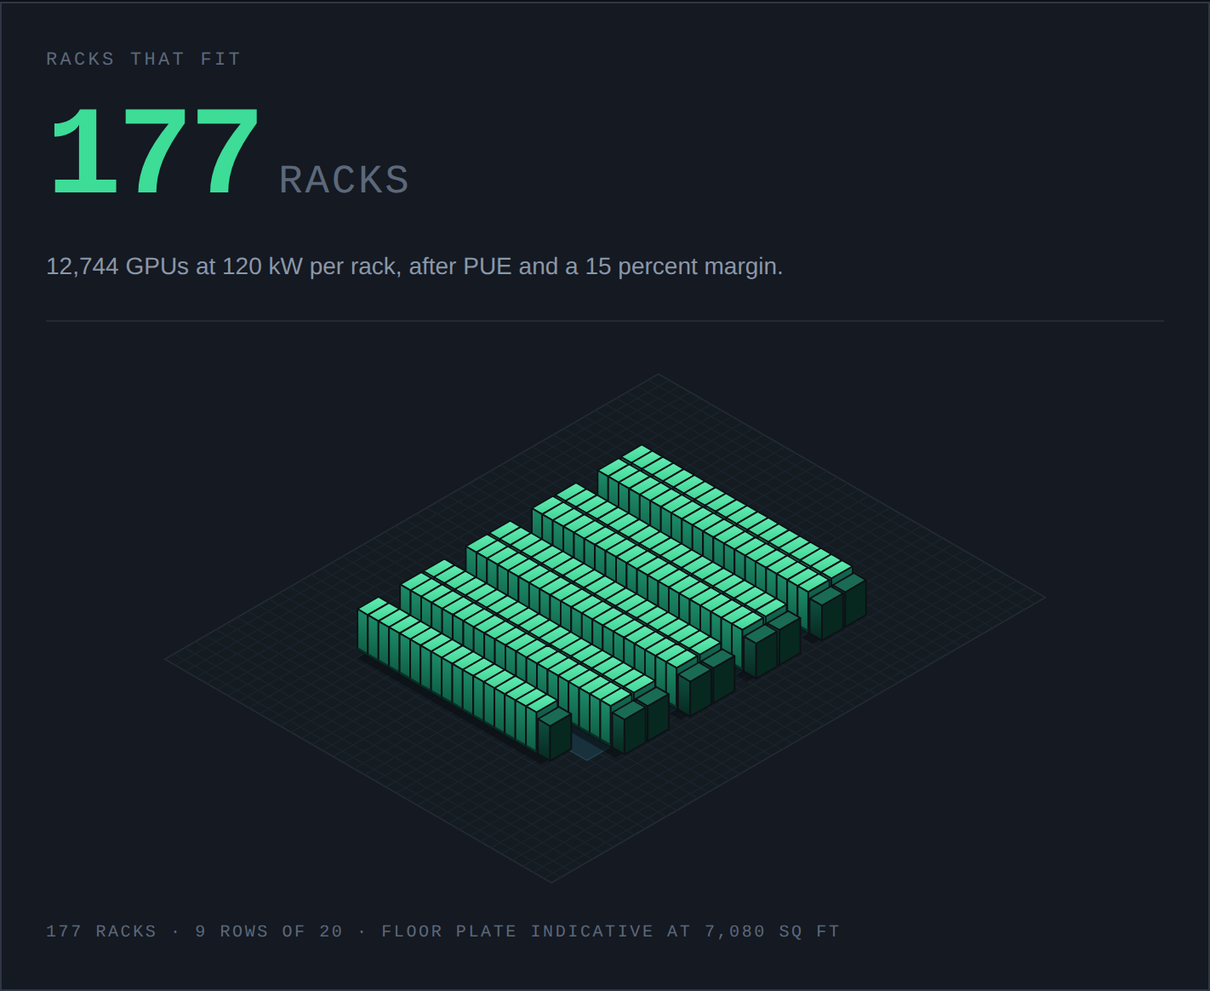
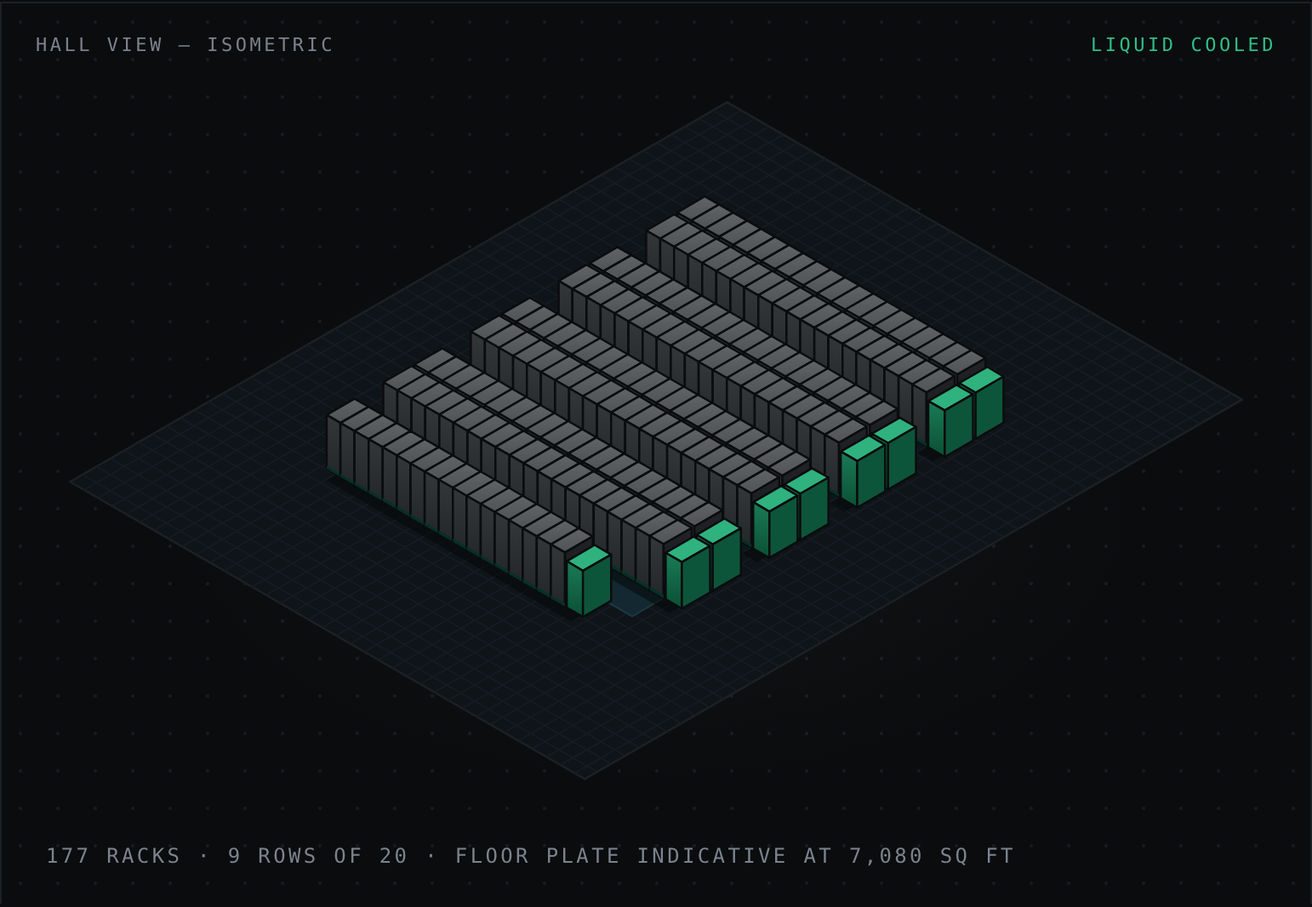
Ration the accent so green reads as a signal again
The green had spread past the rule its own token comment stated. It was on
every link hover, every heading hover, the arrow glyphs, table-row hover, the
section numerals, the slider thumbs, the select caret, the stage glow, the
sweep line, and all 177 rack faces in the isometric hall — 100 references
across the three pages. An accent on every interaction state is a theme, not
a signal, and it left nothing to mark the things that are actually live.

The hue stays. Green is domain-correct for energized, Crash Cart's risk scale
already owns red through yellow so green is the only hue left meaning fine,
and the megawatt ramp is validated against protanopia at this hue.

What changed is the dosage. Green now means one thing: a number that came
from data, or a thing that is live. Hovers, links and ornament resolve to
white or grey. In the reference table the hover tint goes neutral while the
selected archetype — the row actually driving the model — keeps the signal.

The hall follows the same rule. Racks render in graphite the way real
cabinets look, on a three-step lightness ramp that keeps the isometric faces
reading as solids, and the only colour left in the drawing is the row-end
CDUs. The green now marks the liquid loop instead of the whole room, which
is what the HUD readout beside it already claimed.

Down to 63 references, and the largest coloured mass on the site is gone.
README screenshots regenerated; they were showing a hall that no longer
[…]

diff --git a/rack-budget/index.html b/rack-budget/index.html
@@ -27,7 +27,9 @@
     --tx2:#A8B0B8;         /* secondary text */
     --tx2b:#C7CDD4;        /* dense mono passages: one step brighter to stay readable */
     --tx3:#7B838D;         /* labels only */
-    --grn:#3FE0A0;         /* signal green: data and live things only */
+    /* Signal green, and nothing else gets it. A number that came from data, or a
+       thing that is live. Not hovers, not links, not ornament. */
+    --grn:#3FE0A0;
     --grn2:#2FBF86;
     --ramp1:#4FE3A5;       /* ordinal step 1: compute */
     --ramp2:#1E9E73;       /* ordinal step 2: held back */
@@ -76,7 +78,7 @@
   h3{font-weight:600;font-size:17px;letter-spacing:-.015em;margin:0 0 8px}
   .lede{font-size:17px;color:var(--tx2);max-width:62ch;margin:0;text-wrap:pretty}
   .lede a{color:var(--tx);text-decoration:underline;text-decoration-color:var(--line2);text-underline-offset:4px}
-  .lede a:hover{color:var(--grn);text-decoration-color:var(--grn)}
+  .lede a:hover{color:var(--tx);text-decoration-color:var(--tx)}
   section{padding:96px 0;border-top:1px solid var(--line);scroll-margin-top:64px}
   @media(max-width:700px){section{padding:64px 0}}
 
@@ -102,7 +104,7 @@
     background:var(--tx);color:var(--bg);border:1px solid var(--tx);cursor:pointer}
   .btn:hover{background:#fff;border-color:#fff}
   .btn.ghost{background:transparent;color:var(--tx);border-color:var(--line2)}
-  .btn.ghost:hover{border-color:var(--grn);color:var(--grn)}
+  .btn.ghost:hover{border-color:var(--tx);color:var(--tx)}
   .btn:active{transform:translateY(1px)}
 
   /* ---------- calculator: one framed console ----------
@@ -153,9 +155,9 @@
      on touch screens the strip grows to the 44px floor and the thumb doubles */
   input[type=range]{-webkit-appearance:none;appearance:none;width:100%;height:28px;background:transparent;margin:4px 0 0;cursor:pointer}
   input[type=range]::-webkit-slider-runnable-track{height:2px;background:var(--line2)}
-  input[type=range]::-webkit-slider-thumb{-webkit-appearance:none;width:13px;height:13px;background:var(--grn);border:0;cursor:pointer;margin-top:-5.5px}
+  input[type=range]::-webkit-slider-thumb{-webkit-appearance:none;width:13px;height:13px;background:var(--tx);border:0;cursor:pointer;margin-top:-5.5px}
   input[type=range]::-moz-range-track{height:2px;background:var(--line2)}
-  input[type=range]::-moz-range-thumb{width:13px;height:13px;background:var(--grn);border:0;border-radius:0;cursor:pointer}
+  input[type=range]::-moz-range-thumb{width:13px;height:13px;background:var(--tx);border:0;border-radius:0;cursor:pointer}
   @media(pointer:coarse){
     input[type=range]{height:44px;margin:0}
     input[type=range]::-webkit-slider-thumb{width:26px;height:26px;margin-top:-12px}
@@ -170,13 +172,13 @@
   .sel-btn{display:flex;align-items:center;gap:12px;width:100%;font-family:var(--mono);font-size:15px;
     text-align:start;padding:13px 14px;border:1px solid var(--line2);background:var(--bg2);color:var(--tx);cursor:pointer}
   .sel-btn:hover{border-color:var(--tx3)}
-  .sel-btn[aria-expanded="true"]{border-color:var(--grn)}
+  .sel-btn[aria-expanded="true"]{border-color:var(--tx)}
   .sel-btn:focus-visible{outline:2px solid var(--grn);outline-offset:3px}
   .sel-btn .nm{flex:1;min-width:0;overflow:hidden;text-overflow:ellipsis;white-space:nowrap}
   .sel-btn .kw{color:var(--tx3);font-variant-numeric:tabular-nums;white-space:nowrap;font-size:12px}
   .caret{flex:none;width:10px;height:10px;color:var(--tx3)}
   .sel-btn:hover .caret{color:var(--tx)}
-  .sel-btn[aria-expanded="true"] .caret{color:var(--grn);transform:rotate(180deg)}
+  .sel-btn[aria-expanded="true"] .caret{color:var(--tx);transform:rotate(180deg)}
   .sel-list{position:absolute;z-index:50;inset-inline:0;top:calc(100% + 5px);margin:0;padding:5px 0;list-style:none;
     background:var(--bg2);border:1px solid var(--line2);box-shadow:0 22px 48px rgba(0,0,0,.62);
     max-height:min(54vh,340px);overflow-y:auto;overscroll-behavior:contain}
@@ -205,7 +207,7 @@
 
   /* the stage: a framed dark field with registration ticks; the viz owns it */
   .stage{position:relative;overflow:hidden;border:1px solid var(--line);background:
-    radial-gradient(58% 48% at 50% 56%, rgba(63,224,160,.05), transparent 72%),
+    radial-gradient(58% 48% at 50% 56%, rgba(238,241,243,.04), transparent 72%),
     radial-gradient(circle, #161B20 1px, transparent 1.1px);
     background-size:100% 100%, 22px 22px;
     padding:44px 26px 18px;min-height:360px;margin-bottom:34px;
@@ -263,7 +265,7 @@
   .three{display:grid;grid-template-columns:repeat(3,1fr);gap:48px;margin-top:52px}
   @media(max-width:820px){.three{grid-template-columns:1fr;gap:36px}}
   .three .c{border-top:1px solid var(--line2);padding-top:22px}
-  .three .c .i{font-family:var(--mono);font-size:12px;color:var(--grn);margin-bottom:14px}
+  .three .c .i{font-family:var(--mono);font-size:12px;color:var(--tx3);margin-bottom:14px}
   .three .c p{margin:0;font-size:15px;color:var(--tx2);text-wrap:pretty}
 
   /* the numbers that make the argument, on an instrument readout of their own */
@@ -285,7 +287,7 @@
   .steps{display:grid;grid-template-columns:repeat(2,1fr);gap:44px 48px;margin-top:52px}
   @media(max-width:820px){.steps{grid-template-columns:1fr;gap:36px}}
   .step{border-top:1px solid var(--line2);padding-top:22px}
-  .step .n{font-family:var(--mono);font-size:12px;letter-spacing:.14em;text-transform:uppercase;color:var(--grn);margin-bottom:14px}
+  .step .n{font-family:var(--mono);font-size:12px;letter-spacing:.14em;text-transform:uppercase;color:var(--tx3);margin-bottom:14px}
   .step p{margin:0 0 10px;font-size:15px;color:var(--tx2);text-wrap:pretty}
   .step p:last-child{margin-bottom:0}
   .step b{color:var(--tx);font-weight:500}
@@ -307,15 +309,18 @@
   .tag{font-family:var(--mono);font-size:11px;letter-spacing:.12em;text-transform:uppercase;border:1px solid var(--line2);padding:3px 8px;color:var(--tx3);white-space:nowrap}
   .tag.l{border-color:rgba(63,224,160,.4);color:var(--grn)}
   #refBody tr{cursor:pointer}
-  #refBody tr:hover td{background:rgba(63,224,160,.03)}
-  #refBody tr:hover td.name{color:var(--grn)}
+  /* hover is just pointer feedback and stays neutral; only the selected
+     archetype — the one actually driving the model — earns the signal */
+  #refBody tr:hover td{background:rgba(238,241,243,.03)}
+  #refBody tr:hover td.name{color:var(--tx)}
   #refBody tr.on td{background:rgba(63,224,160,.05)}
   #refBody tr.on td.name{color:var(--grn)}
   /* the archetype name is the row's real control, so the ladder works by keyboard too */
   .rowbtn{font:inherit;font-weight:500;color:inherit;background:none;border:0;padding:0;margin:0;text-align:start;cursor:pointer;width:100%;
     text-decoration:underline dotted var(--line2);text-decoration-thickness:from-font;text-underline-offset:4px}
   .rowbtn:focus-visible{outline:2px solid var(--grn);outline-offset:3px}
-  #refBody tr:hover .rowbtn,#refBody tr.on .rowbtn{color:var(--grn);text-decoration-color:var(--grn2)}
+  #refBody tr:hover .rowbtn{color:var(--tx);text-decoration-color:var(--tx3)}
+  #refBody tr.on .rowbtn{color:var(--grn);text-decoration-color:var(--grn2)}
   @media(max-width:700px){
     table th:last-child, table td:last-child{display:none}
     th,td{padding-inline-end:10px}
@@ -345,7 +350,7 @@
   .model ul.plain li:last-child{border-bottom:0}
   .model ul.plain li:before{content:none}
   ul.plain li{position:relative;padding-inline-start:28px;margin-bottom:14px;font-size:16px;color:var(--tx2)}
-  ul.plain li:before{content:"\2014";position:absolute;left:0;font-family:var(--mono);color:var(--grn2)}
+  ul.plain li:before{content:"\2014";position:absolute;left:0;font-family:var(--mono);color:var(--tx3)}
   ul.plain li b{color:var(--tx);font-weight:500}
 
   /* ---------- section index: outlined ghost numerals ---------- */
@@ -375,7 +380,7 @@
   .p-spec dd.on::before{content:"";display:inline-block;width:6px;height:6px;background:var(--grn);margin-right:10px;vertical-align:1px}
   .plate-ft{display:flex;flex-wrap:wrap;align-items:center;justify-content:space-between;gap:14px 24px;border-top:1px solid var(--line);padding:20px 52px}
   .lnk{font-family:var(--mono);font-size:12px;letter-spacing:.14em;text-transform:uppercase;color:var(--tx2);white-space:nowrap;padding:14px 2px}
-  .lnk:hover{color:var(--grn)}
+  .lnk:hover{color:var(--tx)}
   @media(max-width:860px){
     .plate-main{grid-template-columns:1fr;gap:36px;padding:32px 24px 30px}
     .plate-ft{padding:16px 24px;flex-direction:column;align-items:stretch}
@@ -385,7 +390,7 @@
 
   footer{border-top:1px solid var(--line);padding:44px 0 72px;font-size:15px;color:var(--tx3)}
   footer a{color:var(--tx2)}
-  footer a:hover{color:var(--grn)}
+  footer a:hover{color:var(--tx)}
   footer .lbl{margin-bottom:14px}
 
   .toast{position:fixed;left:50%;bottom:28px;transform:translateX(-50%) translateY(20px);background:var(--tx);color:var(--bg);font-family:var(--mono);font-weight:600;font-size:12px;letter-spacing:.13em;text-transform:uppercase;padding:13px 20px;opacity:0;pointer-events:none;z-index:60}
@@ -1004,10 +1009,10 @@
 
     // light falls from the upper left, so every face gets its own ramp
     out.push('<defs>'+
-      '<linearGradient id="gTop" x1="0" y1="0" x2="0" y2="1"><stop offset="0" stop-color="#63EEB4"/><stop offset="1" stop-color="#41D294"/></linearGradient>'+
-      '<linearGradient id="gFront" x1="0" y1="0" x2="0" y2="1"><stop offset="0" stop-color="#1D8E69"/><stop offset="1" stop-color="#0E5B43"/></linearGradient>'+
-      '<linearGradient id="gSide" x1="0" y1="0" x2="0" y2="1"><stop offset="0" stop-color="#136B51"/><stop offset="1" stop-color="#0A3F2F"/></linearGradient>'+
-      '<linearGradient id="gCdu" x1="0" y1="0" x2="0" y2="1"><stop offset="0" stop-color="#0F5040"/><stop offset="1" stop-color="#07281F"/></linearGradient>'+
+      '<linearGradient id="gTop" x1="0" y1="0" x2="0" y2="1"><stop offset="0" stop-color="#616467"/><stop offset="1" stop-color="#505356"/></linearGradient>'+
+      '<linearGradient id="gFront" x1="0" y1="0" x2="0" y2="1"><stop offset="0" stop-color="#34373A"/><stop offset="1" stop-color="#242729"/></linearGradient>'+
+      '<linearGradient id="gSide" x1="0" y1="0" x2="0" y2="1"><stop offset="0" stop-color="#212326"/><stop offset="1" stop-color="#141619"/></linearGradient>'+
+      '<linearGradient id="gCdu" x1="0" y1="0" x2="0" y2="1"><stop offset="0" stop-color="#1A7B56"/><stop offset="1" stop-color="#0B4F35"/></linearGradient>'+
       '</defs>');
 
     // ---- floor plate + raised-floor tiles ----
@@ -1065,9 +1070,9 @@
       // row-end coolant distribution unit: every liquid row needs one
       if(liquid && LOD >= 1 && p[3] === rowLen[p[2]] - 1){
         var cx = x + RW + 0.08, CW = 0.7, CH = 1.72;
-        out.push(poly([iso(cx,y,CH),iso(cx+CW,y,CH),iso(cx+CW,y+RD,CH),iso(cx,y+RD,CH)], "#1A6B54", "#0A0C0E"));
+        out.push(poly([iso(cx,y,CH),iso(cx+CW,y,CH),iso(cx+CW,y+RD,CH),iso(cx,y+RD,CH)], "#2FB27E", "#0A0C0E"));
         out.push(poly([iso(cx,y+RD,CH),iso(cx+CW,y+RD,CH),iso(cx+CW,y+RD,0),iso(cx,y+RD,0)], "url(#gCdu)", "#0A0C0E"));
-        out.push(poly([iso(cx+CW,y,CH),iso(cx+CW,y+RD,CH),iso(cx+CW,y+RD,0),iso(cx+CW,y,0)], "#07281F", "#0A0C0E"));
+        out.push(poly([iso(cx+CW,y,CH),iso(cx+CW,y+RD,CH),iso(cx+CW,y+RD,0),iso(cx+CW,y,0)], "#0D553A", "#0A0C0E"));
         if(LOD === 2)
           out.push(line(iso(cx+0.06,y+RD,CH-0.18), iso(cx+CW-0.06,y+RD,CH-0.18), "#3FE0A0", 0.7));
       }

diff --git a/index.html b/index.html
@@ -26,7 +26,10 @@
     --tx:#EEF1F3;          /* primary text */
     --tx2:#A8B0B8;         /* secondary text */
     --tx3:#7B838D;         /* labels only */
-    --grn:#3FE0A0;         /* signal green: data and live things only */
+    /* Signal green, and nothing else gets it. A number that came from data, or a
+       thing that is live. Not hovers, not links, not ornament — the moment it
+       lands on interaction states it stops reading as a signal. */
+    --grn:#3FE0A0;
     --grn2:#2FBF86;
     --sans:"Archivo",-apple-system,BlinkMacSystemFont,"Segoe UI",Helvetica,Arial,sans-serif;
     --mono:"Geist Mono",ui-monospace,SFMono-Regular,Menlo,Consolas,monospace;
@@ -70,7 +73,7 @@
     display:inline-flex;align-items:center;gap:10px;padding:15px 24px;background:var(--tx);color:var(--bg);border:1px solid var(--tx);cursor:pointer}
   .btn:hover{background:#fff;border-color:#fff}
   .btn.ghost{background:transparent;color:var(--tx);border-color:var(--line2)}
-  .btn.ghost:hover{border-color:var(--grn);color:var(--grn)}
+  .btn.ghost:hover{border-color:var(--tx);color:var(--tx)}
   @media(max-width:640px){.btns{width:100%;flex-direction:column;align-items:stretch}.btns .btn{justify-content:center}}
   @media (prefers-reduced-motion: no-preference){
     html{scroll-behavior:smooth}
@@ -78,9 +81,9 @@
     .rise{animation:rise .7s cubic-bezier(.2,.7,.2,1) both}
     .rise.d1{animation-delay:.06s}.rise.d2{animation-delay:.12s}.rise.d3{animation-delay:.18s}.rise.d4{animation-delay:.28s}
     @keyframes rise{from{opacity:0;transform:translateY(14px)}}
-    /* a survey line sweeps the stage; pure decoration, gone under reduced motion */
+    /* a survey line sweeps the stage; pure decoration, so it stays neutral */
     .stage::after{content:"";position:absolute;top:0;bottom:0;left:-160px;width:140px;pointer-events:none;
-      background:linear-gradient(90deg,transparent,rgba(63,224,160,.04) 40%,rgba(63,224,160,.13) 50%,rgba(63,224,160,.04) 60%,transparent);
+      background:linear-gradient(90deg,transparent,rgba(238,241,243,.03) 40%,rgba(238,241,243,.09) 50%,rgba(238,241,243,.03) 60%,transparent);
       animation:scan 9s linear infinite}
     @keyframes scan{to{left:calc(100% + 40px)}}
     .tk{animation:tick 48s linear infinite}
@@ -89,7 +92,7 @@
 
   /* the stage: a framed dark field with registration ticks; the viz owns it */
   .stage{position:relative;overflow:hidden;border:1px solid var(--line);background:
-    radial-gradient(52% 56% at 50% 52%, rgba(63,224,160,.08), transparent 72%),
+    radial-gradient(52% 56% at 50% 52%, rgba(238,241,243,.04), transparent 72%),
     radial-gradient(circle, #161B20 1px, transparent 1.1px);
     background-size:100% 100%, 22px 22px;padding:58px 34px 22px;min-height:440px;
     display:flex;flex-direction:column;justify-content:center}
@@ -106,7 +109,7 @@
   @media(max-width:640px){.hud.tr2{display:none}}
   .stage svg{width:100%;height:auto;display:block;max-height:560px}
   .stage .cap{display:flex;flex-wrap:wrap;align-items:baseline;justify-content:space-between;gap:10px 16px;margin-top:24px}
-  .cap-link{font-family:var(--mono);font-size:11px;letter-spacing:.16em;text-transform:uppercase;color:var(--grn);white-space:nowrap;position:relative}
+  .cap-link{font-family:var(--mono);font-size:11px;letter-spacing:.16em;text-transform:uppercase;color:var(--tx);white-space:nowrap;position:relative}
   .cap-link::after{content:"";position:absolute;inset:-14px -8px}
   .cap-link:hover{text-decoration:underline;text-underline-offset:4px}
 
@@ -143,8 +146,8 @@
   @media(max-width:960px){.tag{grid-row:1;grid-column:2;justify-self:end}}
   .tool .arr{display:inline-block;font-family:var(--mono);font-size:17px;color:var(--tx3);transform:translateX(0)}
   a.tool:hover{background:linear-gradient(90deg,transparent,rgba(238,241,243,.025),transparent)}
-  a.tool:hover h3{color:var(--grn)}
-  a.tool:hover .arr{color:var(--grn)}
+  a.tool:hover h3{color:var(--tx)}
+  a.tool:hover .arr{color:var(--tx)}
   @media (prefers-reduced-motion: no-preference){
     .tool .arr{transition:transform .18s ease,color .18s ease}
     a.tool:hover .arr{transform:translateX(8px)}
@@ -154,7 +157,7 @@
   .three{display:grid;grid-template-columns:repeat(3,1fr);gap:48px}
   @media(max-width:820px){.three{grid-template-columns:1fr;gap:36px}}
   .three .c{border-top:1px solid var(--line2);padding-top:22px}
-  .three .c .i{font-family:var(--mono);font-size:12px;color:var(--grn);margin-bottom:14px}
+  .three .c .i{font-family:var(--mono);font-size:12px;color:var(--tx3);margin-bottom:14px}
   .three .c h3{font-weight:600;font-size:18px;letter-spacing:-.015em;margin:0 0 10px}
   .three .c p{margin:0;font-size:15px;color:var(--tx2);text-wrap:pretty}
 
@@ -174,7 +177,7 @@
   .p-spec dd.on::before{content:"";display:inline-block;width:6px;height:6px;background:var(--grn);margin-right:10px;vertical-align:1px}
   .plate-ft{display:flex;flex-wrap:wrap;align-items:center;justify-content:space-between;gap:14px 24px;border-top:1px solid var(--line);padding:20px 52px}
   .lnk{font-family:var(--mono);font-size:12px;letter-spacing:.14em;text-transform:uppercase;color:var(--tx2);white-space:nowrap;padding:14px 2px}
-  .lnk:hover{color:var(--grn)}
+  .lnk:hover{color:var(--tx)}
   @media(max-width:860px){
     .plate-main{grid-template-columns:1fr;gap:36px;padding:32px 24px 30px}
     .plate-ft{padding:16px 24px;flex-direction:column;align-items:stretch}
@@ -184,7 +187,7 @@
 
   footer{border-top:1px solid var(--line);padding:44px 0 72px;font-size:15px;color:var(--tx3)}
   footer a{color:var(--tx2)}
-  footer a:hover{color:var(--grn)}
+  footer a:hover{color:var(--tx)}
   footer .lbl{margin-bottom:14px}
   footer p{margin:0;max-width:74ch}
 
@@ -412,10 +415,10 @@
   }
 
   out.push('<defs>'+
-    '<linearGradient id="gTop" x1="0" y1="0" x2="0" y2="1"><stop offset="0" stop-color="#63EEB4"/><stop offset="1" stop-color="#41D294"/></linearGradient>'+
-    '<linearGradient id="gFront" x1="0" y1="0" x2="0" y2="1"><stop offset="0" stop-color="#1D8E69"/><stop offset="1" stop-color="#0E5B43"/></linearGradient>'+
-    '<linearGradient id="gSide" x1="0" y1="0" x2="0" y2="1"><stop offset="0" stop-color="#136B51"/><stop offset="1" stop-color="#0A3F2F"/></linearGradient>'+
-    '<linearGradient id="gCdu" x1="0" y1="0" x2="0" y2="1"><stop offset="0" stop-color="#0F5040"/><stop offset="1" stop-color="#07281F"/></linearGradient>'+
+    '<linearGradient id="gTop" x1="0" y1="0" x2="0" y2="1"><stop offset="0" stop-color="#616467"/><stop offset="1" stop-color="#505356"/></linearGradient>'+
+    '<linearGradient id="gFront" x1="0" y1="0" x2="0" y2="1"><stop offset="0" stop-color="#34373A"/><stop offset="1" stop-color="#242729"/></linearGradient>'+
+    '<linearGradient id="gSide" x1="0" y1="0" x2="0" y2="1"><stop offset="0" stop-color="#212326"/><stop offset="1" stop-color="#141619"/></linearGradient>'+
+    '<linearGradient id="gCdu" x1="0" y1="0" x2="0" y2="1"><stop offset="0" stop-color="#1A7B56"/><stop offset="1" stop-color="#0B4F35"/></linearGradient>'+
     '</defs>');
 
   out.push(poly([iso(0,0,0),iso(hallW,0,0),iso(hallW,hallD,0),iso(0,hallD,0)], "#0F1418", "#1C2126"));
@@ -444,9 +447,9 @@
     out.push(poly([iso(x+RW,y,RH),iso(x+RW,y+RD,RH),iso(x+RW,y+RD,0),iso(x+RW,y,0)], "url(#gSide)", "#0A0C0E"));
     if(liquid && p[3] === rowLen[p[2]] - 1){
       var cx = x + RW + 0.08, CW = 0.7, CH = 1.72;
-      out.push(poly([iso(cx,y,CH),iso(cx+CW,y,CH),iso(cx+CW,y+RD,CH),iso(cx,y+RD,CH)], "#1A6B54", "#0A0C0E"));
+      out.push(poly([iso(cx,y,CH),iso(cx+CW,y,CH),iso(cx+CW,y+RD,CH),iso(cx,y+RD,CH)], "#2FB27E", "#0A0C0E"));
       out.push(poly([iso(cx,y+RD,CH),iso(cx+CW,y+RD,CH),iso(cx+CW,y+RD,0),iso(cx,y+RD,0)], "url(#gCdu)", "#0A0C0E"));
-      out.push(poly([iso(cx+CW,y,CH),iso(cx+CW,y+RD,CH),iso(cx+CW,y+RD,0),iso(cx+CW,y,0)], "#07281F", "#0A0C0E"));
+      out.push(poly([iso(cx+CW,y,CH),iso(cx+CW,y+RD,CH),iso(cx+CW,y+RD,0),iso(cx+CW,y,0)], "#0D553A", "#0A0C0E"));
     }
   });
 

diff --git a/crash-cart/index.html b/crash-cart/index.html
@@ -28,7 +28,9 @@
     --tx2:#A8B0B8;         /* secondary text */
     --tx2b:#C7CDD4;        /* dense mono passages: one step brighter to stay readable */
     --tx3:#7B838D;         /* labels only */
-    --grn:#3FE0A0;         /* signal green: data and live things only */
+    /* Signal green, and nothing else gets it. A number that came from data, or a
+       thing that is live. Not hovers, not links, not ornament. */
+    --grn:#3FE0A0;
     --grn2:#2FBF86;
     /* --- risk ramp, ordinal, least to most urgent ---
        Four bands searched rather than picked: monotone OKLab lightness across the three
@@ -87,7 +89,7 @@
   h3{font-weight:600;font-size:17px;letter-spacing:-.015em;margin:0 0 8px}
   .lede{font-size:17px;color:var(--tx2);max-width:62ch;margin:0;text-wrap:pretty}
   .lede a{color:var(--tx);text-decoration:underline;text-decoration-color:var(--line2);text-underline-offset:4px}
-  .lede a:hover{color:var(--grn);text-decoration-color:var(--grn)}
+  .lede a:hover{color:var(--tx);text-decoration-color:var(--tx)}
   @keyframes drop{from{opacity:0;transform:translateY(-5px)}}
   /* motion is opt-in: under reduced motion the reveals, toast and the profile list are
      instant. The chevron still flips, it just does not travel there. */
@@ -113,7 +115,7 @@
     background:var(--tx);color:var(--bg);border:1px solid var(--tx);cursor:pointer}
   .btn:hover{background:#fff;border-color:#fff}
   .btn.ghost{background:transparent;color:var(--tx);border-color:var(--line2)}
-  .btn.ghost:hover{border-color:var(--grn);color:var(--grn)}
+  .btn.ghost:hover{border-color:var(--tx);color:var(--tx)}
   .btn:active{transform:translateY(1px)}
 
   /* ---------- console: the briefing ----------
@@ -208,7 +210,7 @@
   details.more>summary{cursor:pointer;list-style:none;display:flex;align-items:center;gap:12px;padding:15px 18px;
     font-family:var(--mono);font-size:12px;letter-spacing:.13em;text-transform:uppercase;color:var(--tx2)}
   details.more>summary::-webkit-details-marker{display:none}
-  details.more>summary::before{content:"+";font-family:var(--mono);font-weight:600;color:var(--grn);width:1ch}
+  details.more>summary::before{content:"+";font-family:var(--mono);font-weight:600;color:var(--tx3);width:1ch}
   details.more[open]>summary::before{content:"\2212"}
   details.more>summary:hover{color:var(--tx)}
   details.more>summary:focus-visible{outline:2px solid var(--grn);outline-offset:-2px}
@@ -269,7 +271,7 @@
   .steps{display:grid;grid-template-columns:repeat(2,1fr);gap:44px 48px;margin-top:52px}
   @media(max-width:820px){.steps{grid-template-columns:1fr;gap:36px}}
   .step{border-top:1px solid var(--line2);padding-top:22px}
-  .step .n{font-family:var(--mono);font-size:12px;letter-spacing:.14em;text-transform:uppercase;color:var(--grn);margin-bottom:14px}
+  .step .n{font-family:var(--mono);font-size:12px;letter-spacing:.14em;text-transform:uppercase;color:var(--tx3);margin-bottom:14px}
   .step p{margin:0 0 10px;font-size:15px;color:var(--tx2);text-wrap:pretty}
   .step p:last-child{margin-bottom:0}
   .step b{color:var(--tx);font-weight:500}
@@ -338,7 +340,7 @@
   .formula ul.plain li:last-child{border-bottom:0}
   .formula ul.plain li:before{content:none}
   ul.plain li{position:relative;padding-inline-start:28px;margin-bottom:16px;font-size:16px;line-height:1.7;color:var(--tx2)}
-  ul.plain li:before{content:"\2014";position:absolute;inset-inline-start:0;font-family:var(--mono);color:var(--grn2)}
+  ul.plain li:before{content:"\2014";position:absolute;inset-inline-start:0;font-family:var(--mono);color:var(--tx3)}
   ul.plain li b{color:var(--tx);font-weight:500}
 
   /* ---------- section index: outlined ghost numerals ---------- */
@@ -368,7 +370,7 @@
   .p-spec dd.on::before{content:"";display:inline-block;width:6px;height:6px;background:var(--grn);margin-right:10px;vertical-align:1px}
   .plate-ft{display:flex;flex-wrap:wrap;align-items:center;justify-content:space-between;gap:14px 24px;border-top:1px solid var(--line);padding:20px 52px}
   .lnk{font-family:var(--mono);font-size:12px;letter-spacing:.14em;text-transform:uppercase;color:var(--tx2);white-space:nowrap;padding:14px 2px}
-  .lnk:hover{color:var(--grn)}
+  .lnk:hover{color:var(--tx)}
   @media(max-width:860px){
     .plate-main{grid-template-columns:1fr;gap:36px;padding:32px 24px 30px}
     .plate-ft{padding:16px 24px;flex-direction:column;align-items:stretch}
@@ -378,7 +380,7 @@
 
   footer{border-top:1px solid var(--line);padding:44px 0 72px;font-size:15px;color:var(--tx3)}
   footer a{color:var(--tx2)}
-  footer a:hover{color:var(--grn)}
+  footer a:hover{color:var(--tx)}
   footer .lbl{margin-bottom:14px}
 
   .toast{position:fixed;left:50%;bottom:28px;transform:translateX(-50%) translateY(20px);background:var(--tx);color:var(--bg);font-family:var(--mono);font-weight:600;font-size:12px;letter-spacing:.13em;text-transform:uppercase;padding:13px 20px;opacity:0;pointer-events:none;z-index:60}

diff --git a/README.md b/README.md
@@ -83,6 +83,14 @@ adjacent step separation and contrast against the dark surface. An earlier
 three-hue version was rejected for failing colour-blind separation at deltaE 7.3
 under protanopia.
 
+The accent is rationed. Green means one thing — a number that came from data, or a
+thing that is live — and everything else is neutral: hovers, links, section numerals
+and ornament all resolve to white or grey. The isometric hall follows the same rule.
+Racks render in graphite the way real cabinets look, and the only colour in the
+drawing is the row-end CDUs, so the green marks the liquid loop rather than the
+whole room. An accent smeared across every interaction state stops reading as a
+signal, which is the entire job this one has.
+
 ### Running it locally
 
 ```bash
